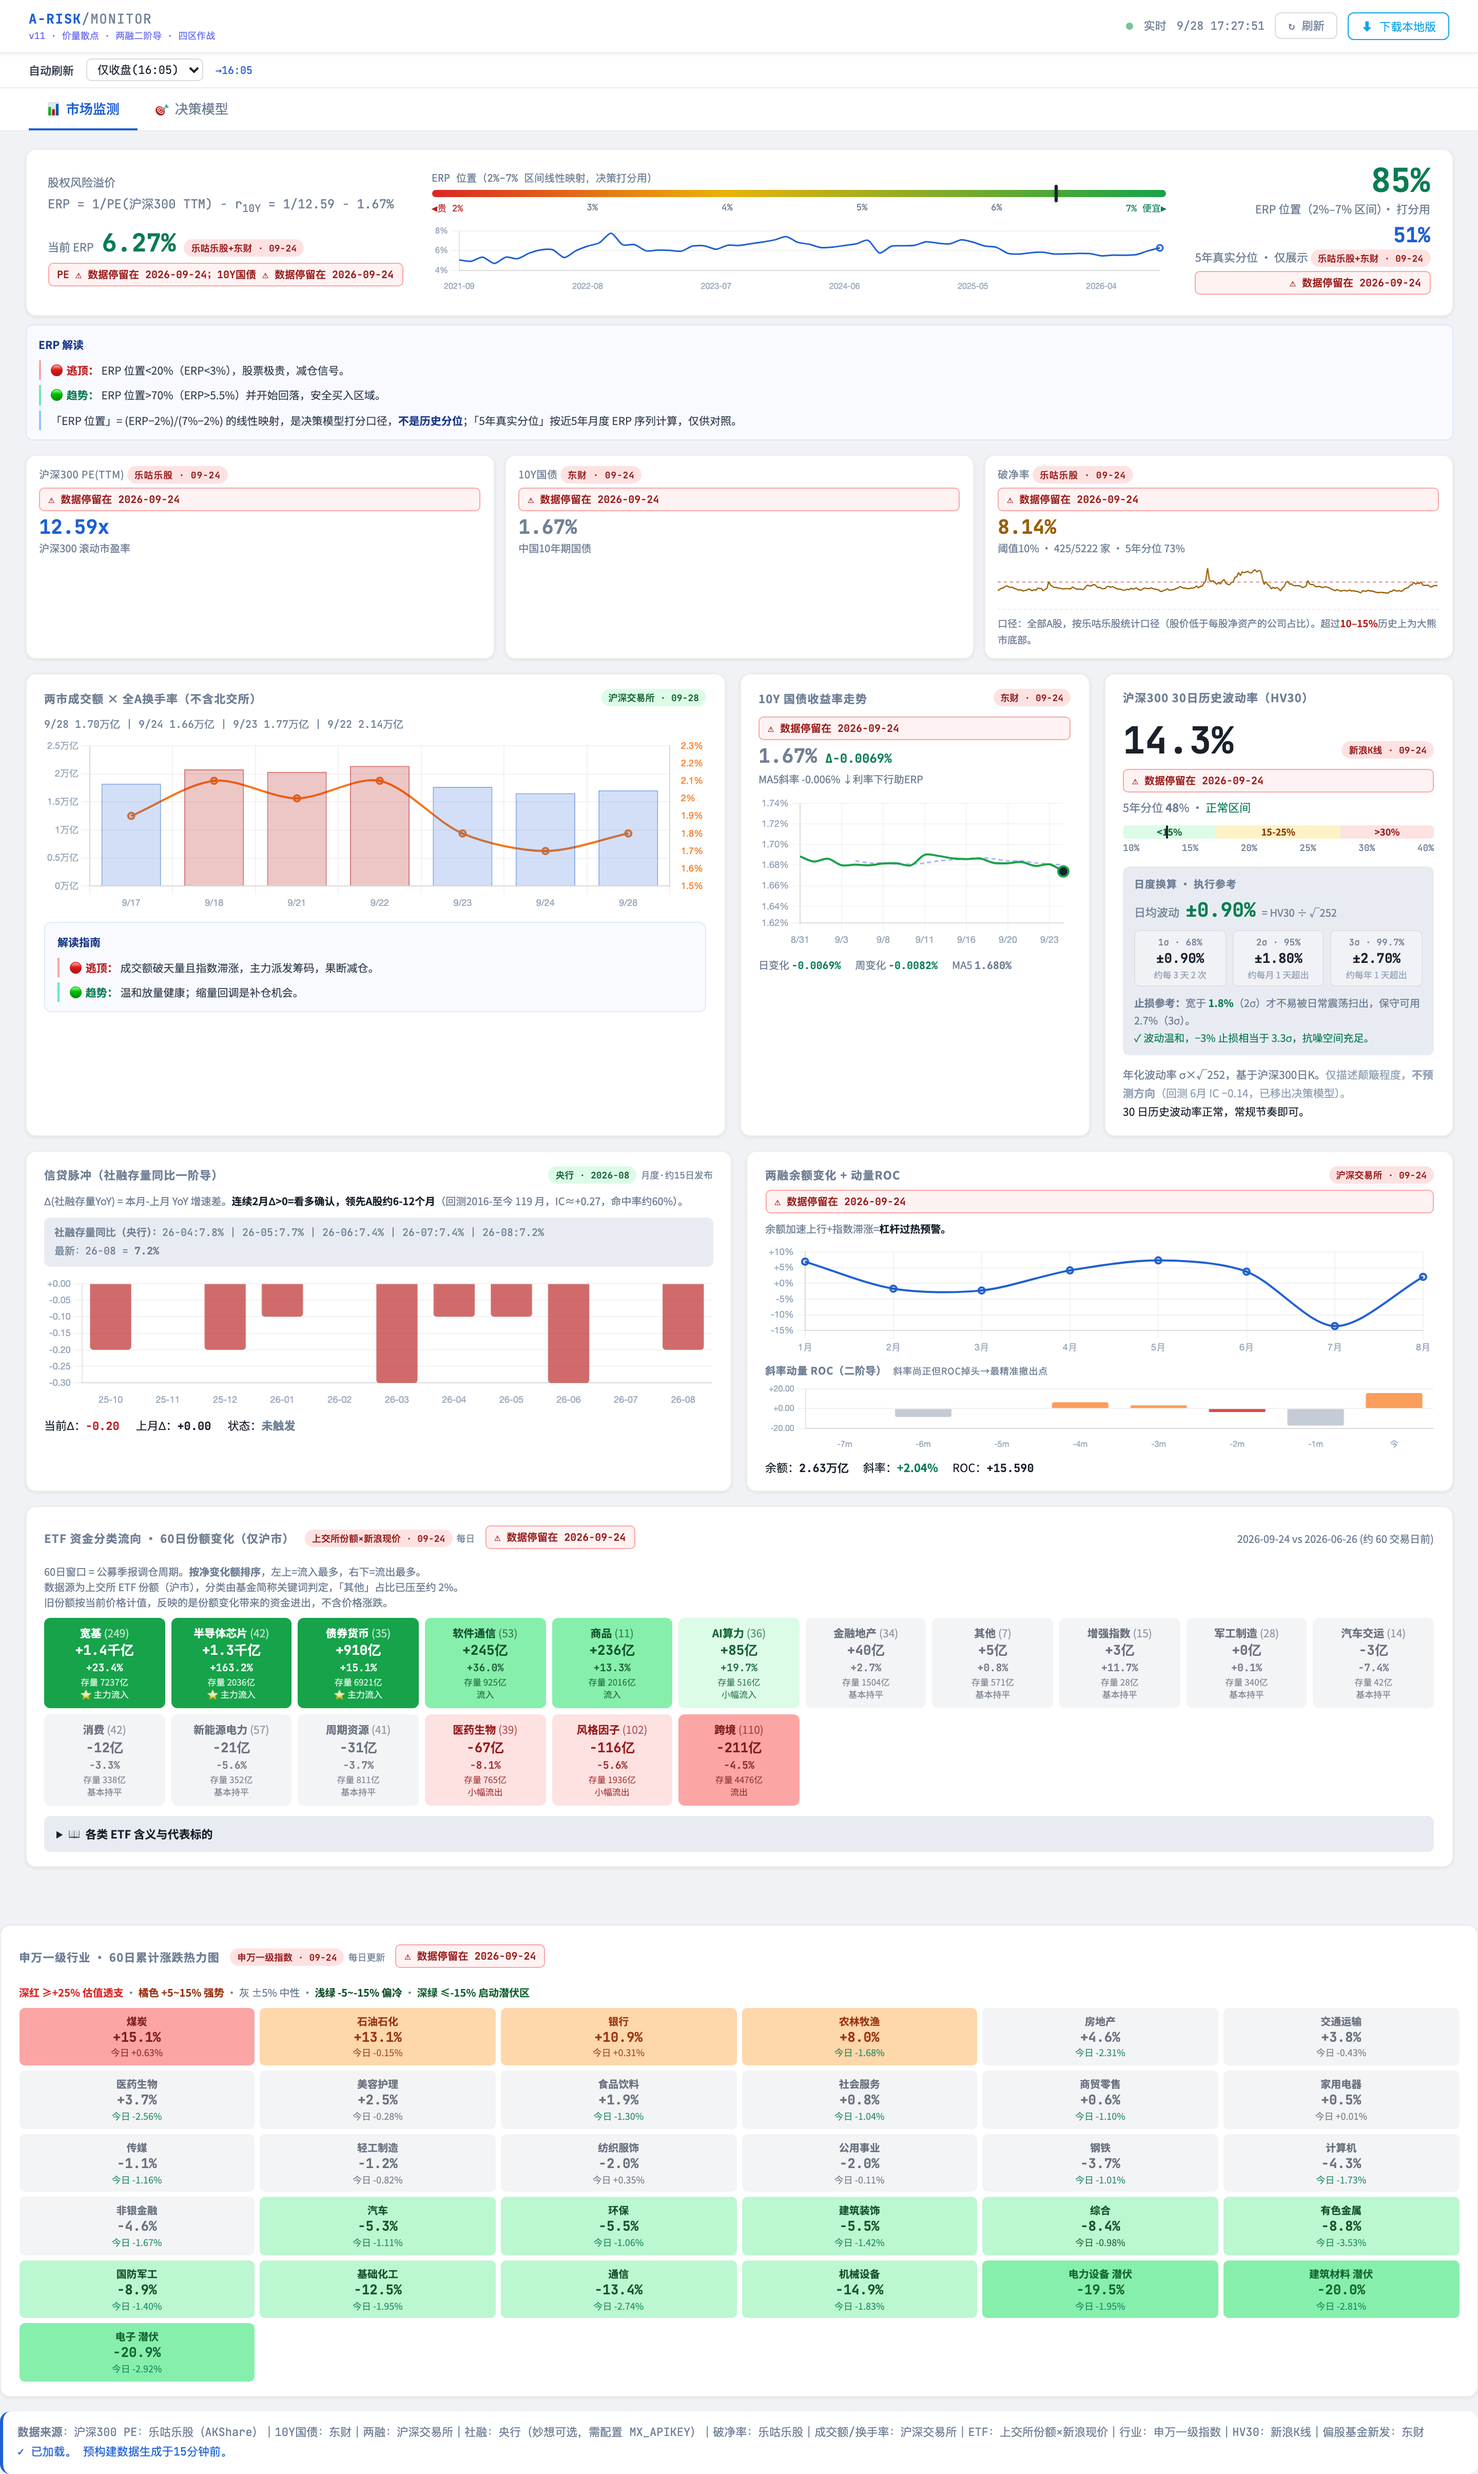
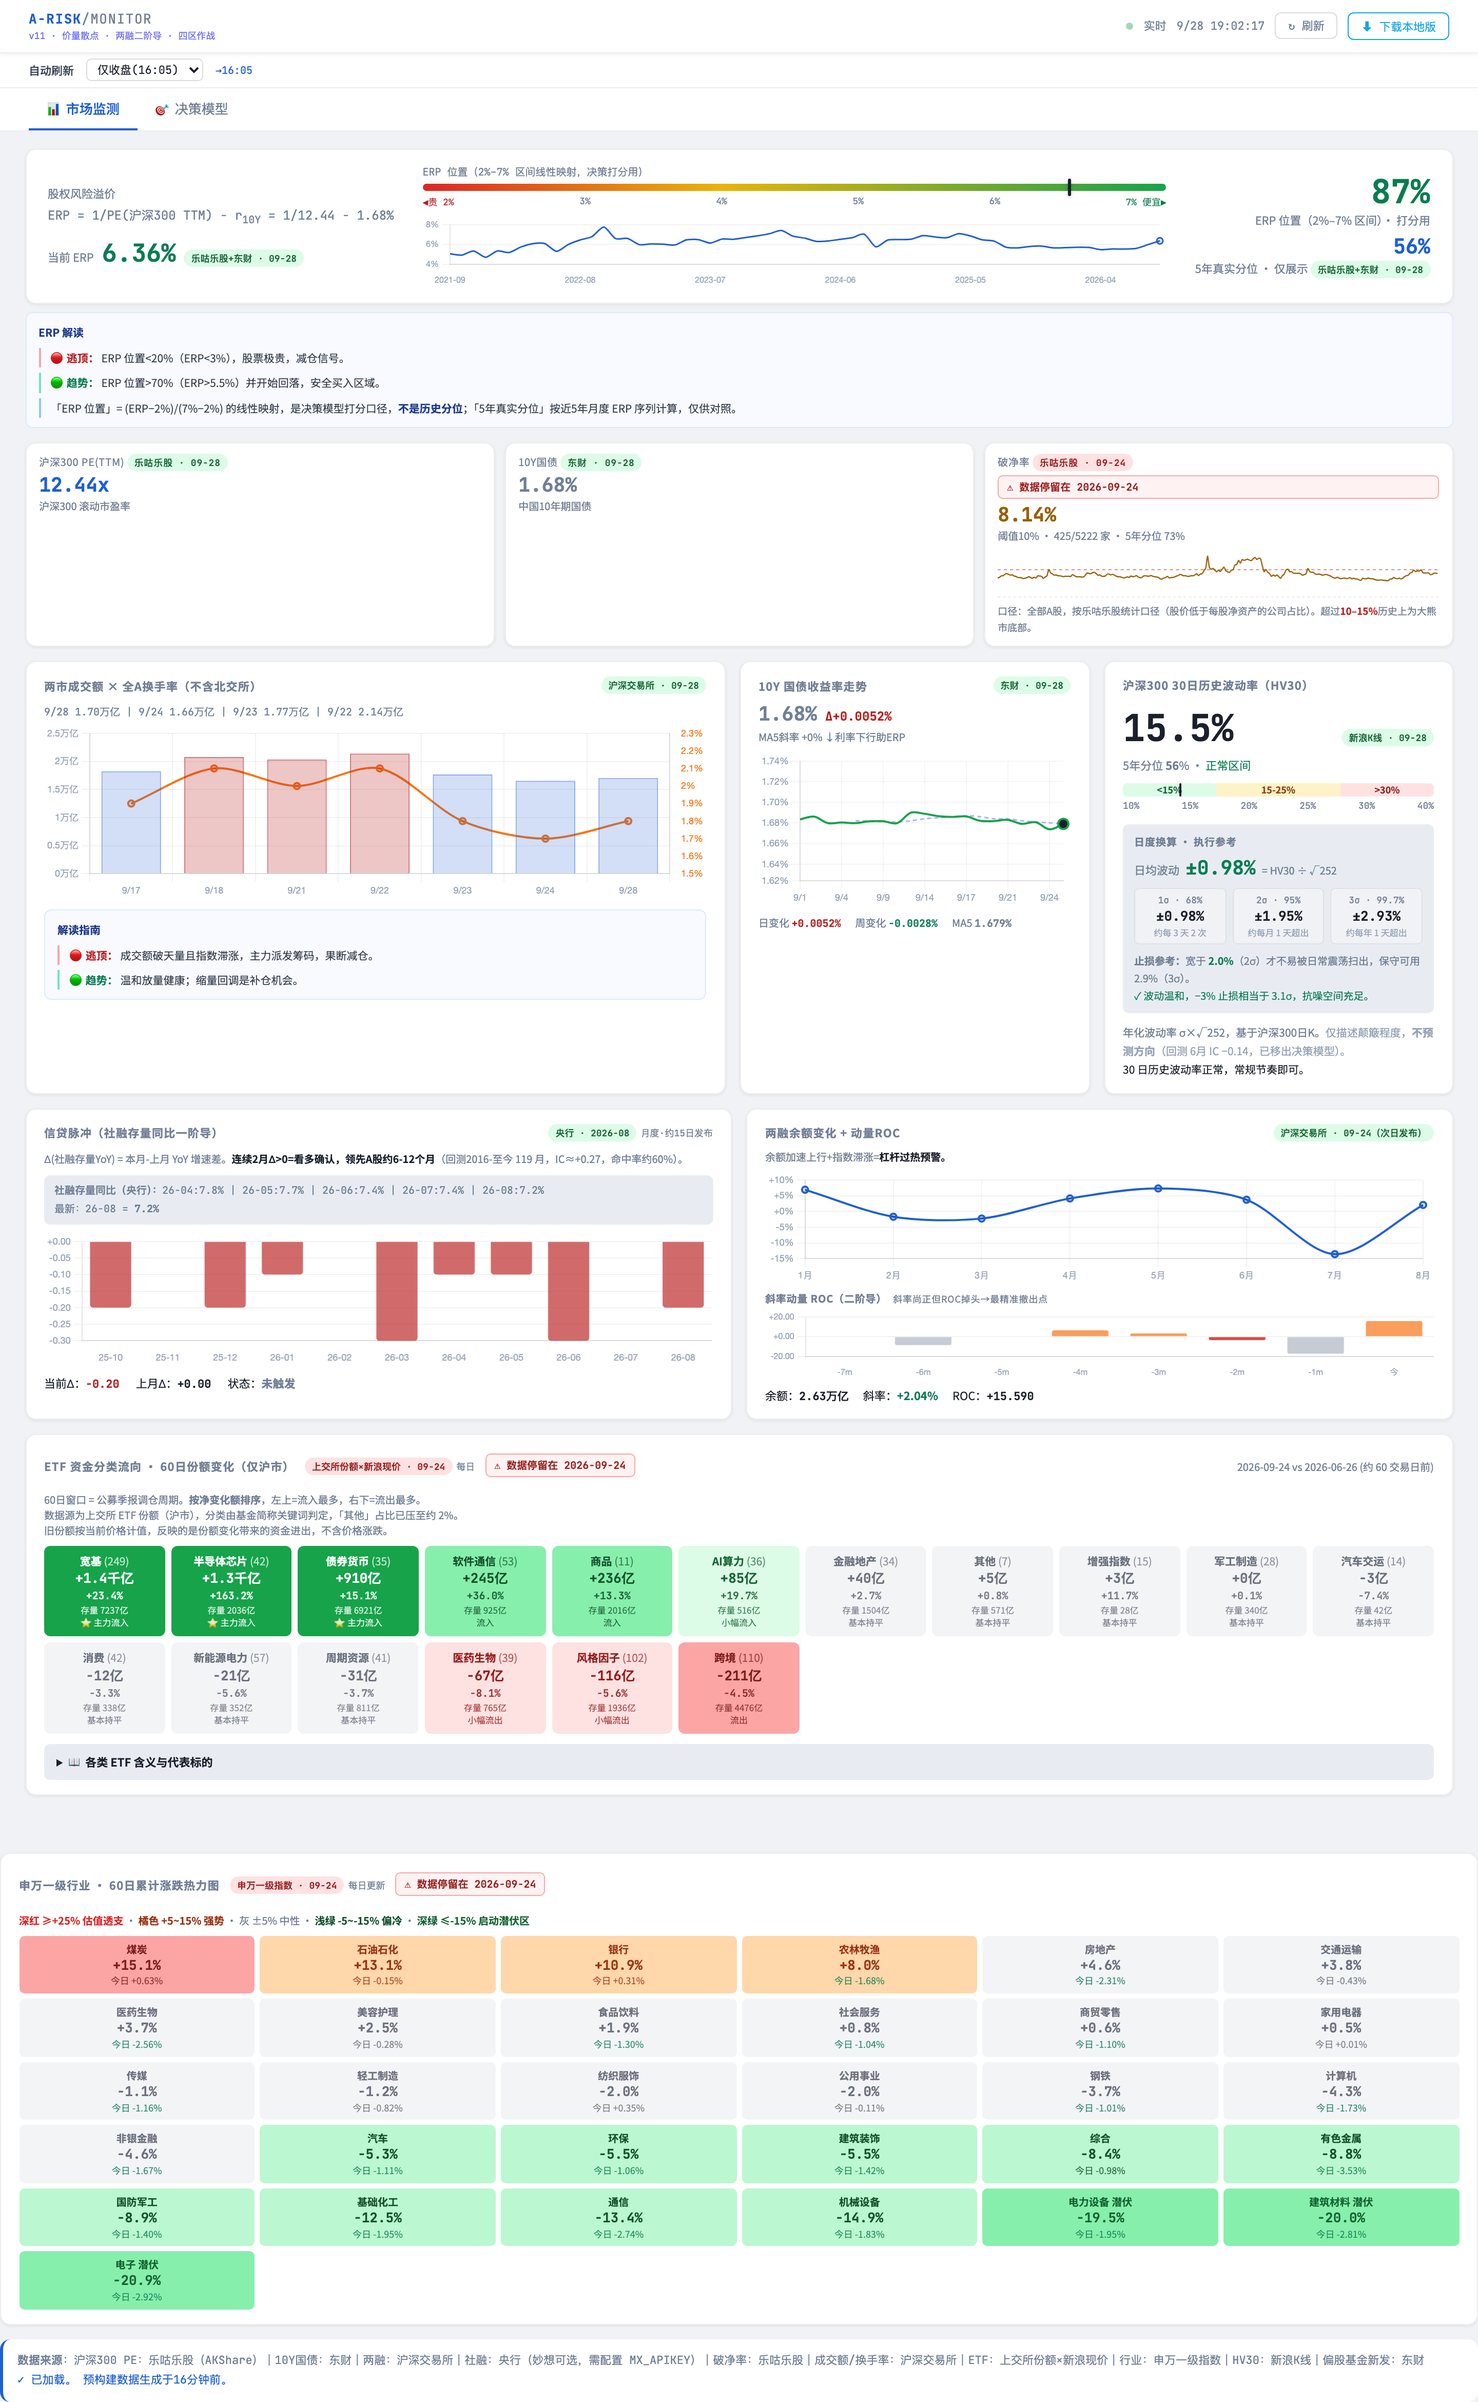
修复：更新进程挂住、T+1 判定、缓存打开时国债走势为空
- update_arisk_data.py：数据写完后 os._exit，避免电脑睡眠后残留网络线程让进程挂住、
  launchd 不再启动后续每小时更新（今晚 18:10 实测挂住 30 分钟）。
- check_and_update.sh：两融为 T+1 发布，只要求到上一交易日；ETF 份额经历史日志核实为
  当天发布（16:26~22:11 不等），仍按日频；日频检查补入 bond10y、below_net_asset。
- 页面：两融徽标标注「次日发布」；ETF/两融的陈旧阈值同步修正；国债走势序列改为随数据
  对象缓存（原从缓存打开时走势图为空）；删除已无用的国债 K 线死代码；缓存键 arisk_v19。
- 截图与种子数据更新至 9-28。

diff --git a/arisk_monitor_local.html b/arisk_monitor_local.html
@@ -473,7 +473,7 @@ html{background:var(--bg);color:var(--text);font-family:var(--sans);font-size:14
 const $=id=>document.getElementById(id);
 const clamp=(v,lo,hi)=>Math.max(lo,Math.min(hi,v));
 const esc=s=>s?String(s).replace(/&/g,'&amp;').replace(/</g,'&lt;').replace(/>/g,'&gt;'):'';
-const CKEY='arisk_v18',CTTL=6*3600*1000;
+const CKEY='arisk_v19',CTTL=6*3600*1000;
 // 缓存带数据版本戳 gen（=预构建 JSON 的 generated_at）。
 // loadC 时若与当前 _prebuiltData 的 generated_at 不一致，视为过期 → 强制重拉。
 // 这样后台 cron 一更新 JSON，前端下次加载就自动丢弃旧缓存，无需手动 localStorage.clear()。
@@ -517,13 +517,15 @@ function staleText(m){
   return m.date?'⚠ 数据停留在 '+m.date:'⚠ 无可用数据（静态占位值）';
 }
 /* 数据日期是否已过旧（按自然日粗判，覆盖周末+1天假期；长假期间会如实提示"停留在节前"）：
-   日频 >4 天；社融（月频，次月中旬发布）数据月份距今 >80 天 */
+   日频 >4 天（两融为 T+1 发布，>5 天）；社融（月频，次月中旬发布）数据月份距今 >80 天 */
+const T1_META_KEYS=['margin'];   // 两融为交易所次日发布；ETF 份额当天发布（时间不固定），按普通日频判断
 const DAILY_META_KEYS=['pe_300','bond10y','erp_history','below_net_asset','vol_7d','turnover','hv30','margin','sector_live','etf_categories'];
 function isAged(k,m){
   if(!m||!m.date)return false;
   const t=new Date(m.date.length===7?m.date+'-01':m.date).getTime();
   if(isNaN(t))return false;
   const days=(Date.now()-t)/864e5;
+  if(T1_META_KEYS.includes(k))return days>5;   // T+1 发布：两融、ETF 份额
   if(DAILY_META_KEYS.includes(k))return days>4;
   if(k==='credit_yoy')return days>80;
   return false;
@@ -560,7 +562,8 @@ function renderMeta(meta){
     const est=ms.some(m=>m.is_estimate),stale=keys.some((k,i)=>isStaleMeta(k,ms[i]));
     const src=[...new Set(ms.map(m=>m.source||'无数据'))].join('+');
     const dates=ms.map(m=>m.date).filter(Boolean).sort();
-    el.textContent=src+(dates.length?' · '+fmtDate(dates[0]):'')+(est?' · 估算':'');
+    const t1=keys.some(k=>T1_META_KEYS.includes(k));   // 次日发布的字段：最新可得即上一交易日，明示以免误读
+    el.textContent=src+(dates.length?' · '+fmtDate(dates[0]):'')+(t1?'（次日发布）':'')+(est?' · 估算':'');
     el.className='vbadge '+(stale?'vb-stale':est?'vb-est':'vb-ok');
     el.title=ms.map((m,i)=>(keys.length>1?META_LABEL[keys[i]]+'：':'')+(m.source||'无数据')+(m.date?' '+m.date:'')+(m.note?'（'+m.note+'）':'')).join('\n');
     let note=el._staleNote;
@@ -890,7 +893,7 @@ async function fetchAll(force){
   setL('获取估值/国债/沪深300/ETF/社融...','[1/5]');
 
   // 用 Promise.allSettled，单个失败不影响其他
-  let peW=null,bondW=null,bondYield=null,bondKlines=[],
+  let peW=null,bondW=null,bondYield=null,bondKlines=[],bondHist=null,bondHistLabels=null,
       marginBal=null,marginKlines=[],sfW=null,sfDataLive=null;
   const _settled2=await Promise.allSettled([
     fetchIndexValuation(),
@@ -933,15 +936,6 @@ async function fetchAll(force){
 
   // ETF 资金分类流向的拉取+渲染已统一移到 apply()，覆盖缓存/实时两条路径（见 apply）
 
-  // ── 1. 国债K线历史 → BOND_HIST ──────────────────────────────
-  // 用真实K线替换静态BOND_HIST数组；至少需要5根才有意义
-  if(bondKlines&&bondKlines.length>=5){
-    const closes=bondKlines.map(k=>k.close).filter(v=>v>0&&v<20);
-    if(closes.length>=5){
-      // 覆盖全局 BOND_HIST（渲染时会重新读取）
-      window._BOND_HIST_LIVE=closes;
-    }
-  }
   // 今日收益率：优先实时接口，其次K线最后一根
   let bondNow=bondYield
     ||(bondKlines.length?bondKlines[bondKlines.length-1].close:null)
@@ -1158,8 +1152,8 @@ async function fetchAll(force){
         useMeta('bond10y',PM('bond10y'));
       }
       if(pbBond.hist&&pbBond.hist.length>=5){
-        window._BOND_HIST_LIVE=pbBond.hist.map(x=>x.v);
-        window._BOND_HIST_LABELS=pbBond.hist.map(x=>x.d);
+        bondHist=pbBond.hist.map(x=>x.v);
+        bondHistLabels=pbBond.hist.map(x=>x.d);
       }
     }
     // 社融存量同比 → 一阶导信号（M2 数据作为口径近似回退，AKShare 与央行口径偏差约1pp，
@@ -1188,7 +1182,7 @@ async function fetchAll(force){
   return{
     ...st,
     // 覆盖所有可实时化的字段
-    pe300:peNow, bond10y:bondNow,
+    pe300:peNow, bond10y:bondNow, bondHist, bondHistLabels,
     pbRatio:pbRatioNow, pbSeries:belowNet?.series||[], pbPct5y:belowNet?.pct5y??null,
     pbCount:belowNet?.count??null, pbTotal:belowNet?.total??null,
     erpHist,
@@ -1249,11 +1243,11 @@ function renderVolChart(d){
 }
 
 let _bondChart=null;
-function renderBondTrendChart(cur){
+function renderBondTrendChart(cur,d){
   if(typeof cur!=='number'||isNaN(cur))return;
   // 走势用预构建的日序列（最后一点即最新数据日、未取整）。不再追加取整后的 cur：
   // 旧逻辑会把同一天画两次，「日变化」变成取整误差（如 1.67−1.6738）。无序列时不画静态假数据。
-  const hist=window._BOND_HIST_LIVE||[];
+  const hist=(d&&d.bondHist)||[];
   if(hist.length<6){
     const set0=(id,txt)=>{const e=$(id);if(e)e.textContent=txt;};
     set0('bond-big',cur.toFixed(2)+'%');['bond-delta-badge','bond-d1','bond-w1','bond-ma5'].forEach(id=>set0(id,'--'));
@@ -1263,7 +1257,7 @@ function renderBondTrendChart(cur){
   }
   const data=hist.slice(-20);
   cur=data[data.length-1];
-  const hl=(window._BOND_HIST_LABELS||[]).slice(-20);
+  const hl=((d&&d.bondHistLabels)||[]).slice(-20);
   const labels=data.map((_,i)=>hl[i]||(i===data.length-1?'最新':-(data.length-1-i)+'d'));
   const ma5=data.slice(-5).reduce((a,b)=>a+b,0)/5;
   const slope=+(cur-ma5).toFixed(3),d1=+(cur-data[data.length-2]).toFixed(4),w1=+(cur-data[Math.max(0,data.length-6)]).toFixed(4);
@@ -1842,7 +1836,7 @@ function render(d){
   }
   if(d.sectors)renderHeatmap(d.sectors);
   requestAnimationFrame(()=>{
-    renderVolChart(d);renderBondTrendChart(bd);renderCreditChart(d);renderMarginChart(d);
+    renderVolChart(d);renderBondTrendChart(bd,d);renderCreditChart(d);renderMarginChart(d);
     renderDecisionModel(d);
   });
 }

diff --git a/update_arisk_data.py b/update_arisk_data.py
@@ -918,6 +918,11 @@ def main():
         json.dump(out, f, ensure_ascii=False, indent=2)
     os.replace(tmp, OUT_PATH)
     log(f"=== 完成（{time.time()-t0:.1f}s），输出 {OUT_PATH} ===")
+    # 数据已落盘。超时放弃的段可能留下卡在网络读上的线程（如电脑睡眠后连接失效）；
+    # 线程池的工作线程会让解释器退出时一直等它们，进程挂住后 launchd 不再启动下一次更新。
+    # 所以这里直接结束进程，不等残留线程。
+    sys.stdout.flush(); sys.stderr.flush()
+    os._exit(0)
 
 if __name__ == '__main__':
     sys.exit(main())

diff --git a/CHANGELOG.md b/CHANGELOG.md
@@ -45,6 +45,11 @@
 - 国债走势：不再把取整后的最新值重复追加，「日变化」原为取整误差（Δ−0.004%），现为真实值（−0.0069%）。
 - 删除浏览器直连东财数据中心的国债接口（报表已下线）。
 
+### 晚间修复（2026-09-28）
+- 更新脚本写完数据即退出：电脑睡眠会让在途连接失效，残留线程曾使进程挂住，launchd 随后不再启动每小时更新。
+- `check_and_update.sh`：两融按 T+1（交易所次日发布）只要求到上一交易日；ETF 份额经日志核实为当天发布（时间不固定），仍按日频；日频检查补入 10Y 国债与破净率。
+- 页面：两融徽标标注「次日发布」；国债走势序列随缓存保存（原从缓存打开时走势图为空）；缓存版本升至 arisk_v19。
+
 ### 字段 / 接口变更
 | 旧 | 新 |
 |---|---|
